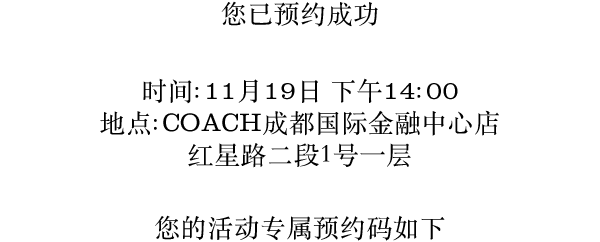
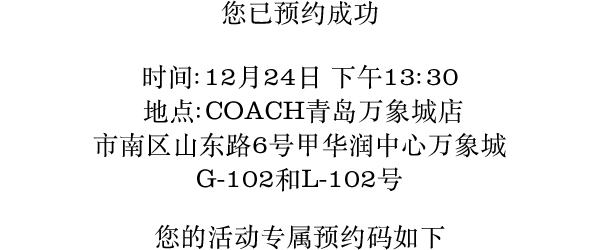
青岛活动界面更新..

Changed region(s): [[0.15, 0.2603, 0.84, 0.781], [0.24, 0.8967, 0.75, 1.0], [0.36, 0.0, 0.63, 0.1157]]

diff --git a/home.html b/home.html
@@ -56,8 +56,8 @@
 					</p>
 
 					<ul class="checklist">
-						<li>14: 30活动签到</li>
-						<li>16: 30活动签到</li>
+						<li>13: 30活动签到</li>
+						<li>15: 30活动签到</li>
 						<li style="display: none;">晚宴签到</li>
 					</ul>
 				</div>
@@ -82,7 +82,7 @@
 	var eventMethod = {
 		scanStatus: false,
 		ajaxSrcArr: ["./api/loginmeets1", "./api/loginmeets2", "./api/logindinner"],
-		ntArr: ["", "14：30", "16：30"], 
+		ntArr: ["", "13：30", "15：30"], 
 		visibleFun: function(n){
 			$(".slideModel").css({"visibility": "hidden"});
 			$(n).css({"visibility": "visible"});
